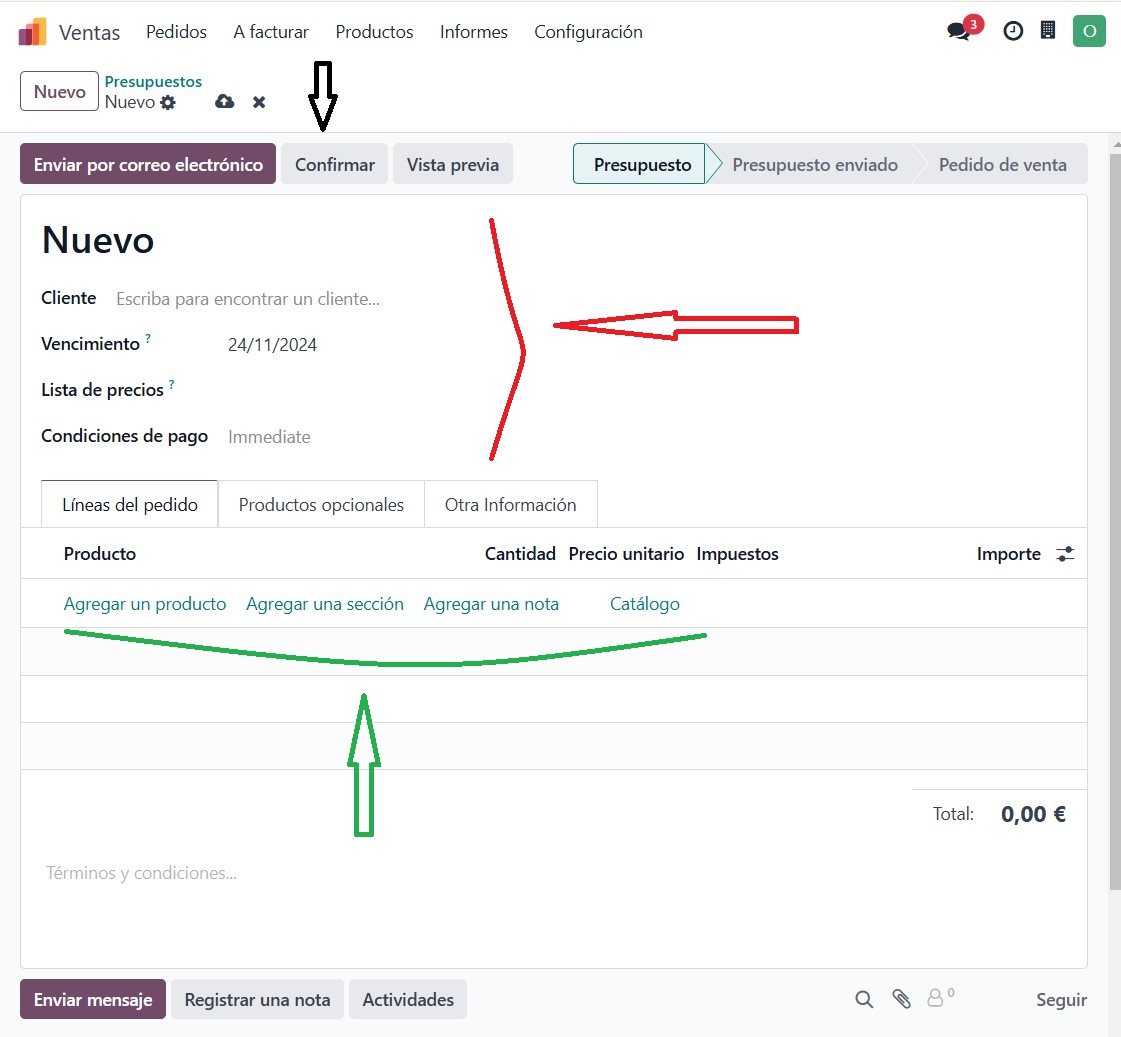
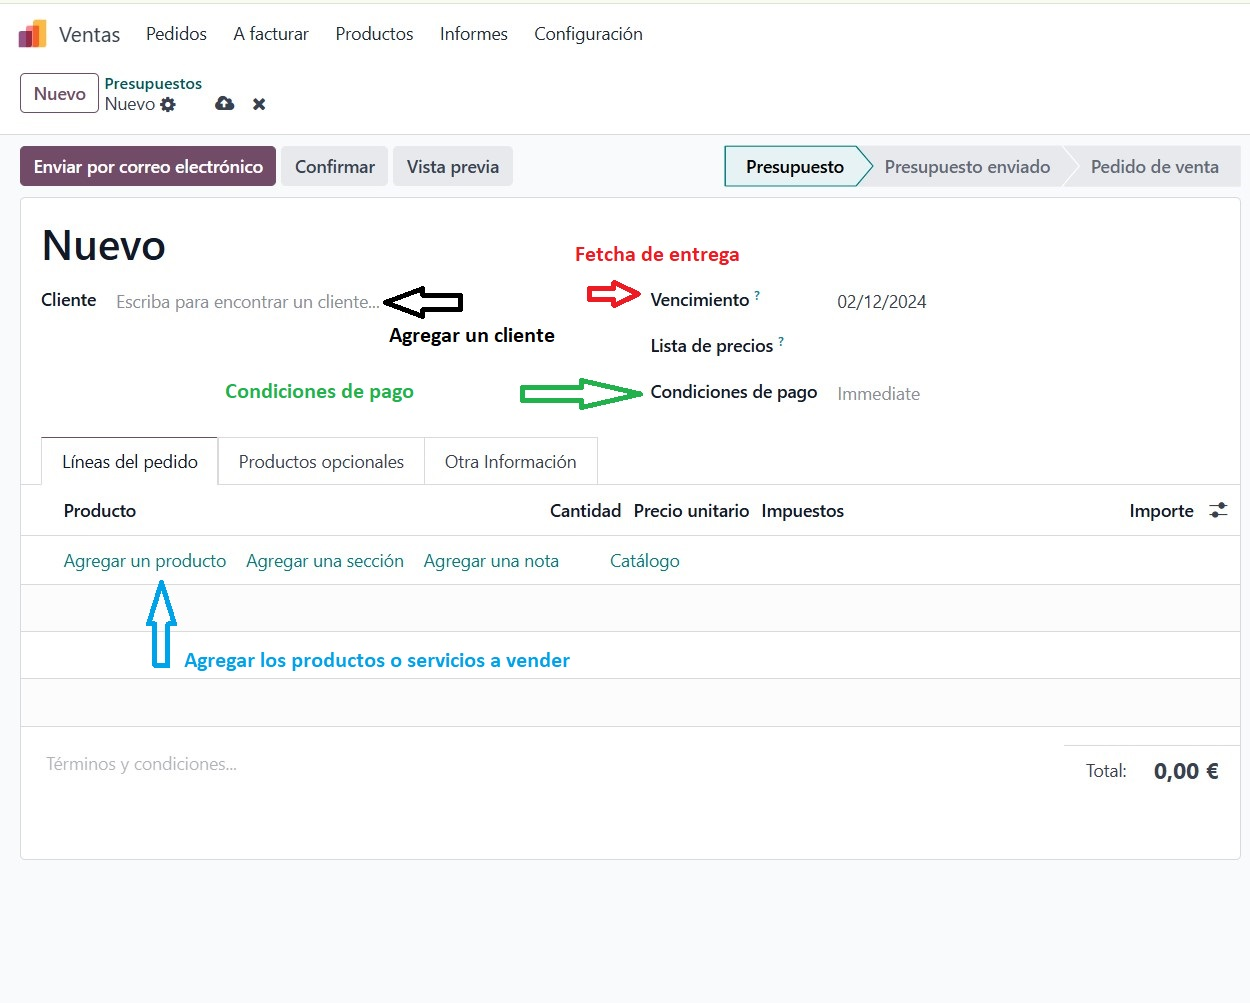
cambiar el modulo de ventas

diff --git a/projecte_the_Bear.md b/projecte_the_Bear.md
@@ -17,36 +17,55 @@ Miguel Muñoz Baena | Puntos de venta y Planificación
 ### Modulo de eventos
 
 ### Modulo de ventas
+El módulo **Ventas** de Odoo permite gestionar todas las actividades relacionadas con el proceso de ventas, incluyendo la creación de cotizaciones, la conversión de estas en pedidos, y la generación de facturas. Este módulo es fundamental para el seguimiento de pedidos de clientes, la automatización del proceso de facturación y la organización de los datos de ventas en una única plataforma.
 
-### 1. Descripción del Módulo
-El módulo **Ventes** permite gestionar todas las ventas del restaurante, incluyendo la creación y emisión de facturas a los clientes.
- 
-### 2. Funcionalidades Principales
-- **Registrar Clientes**: Añadir clientes y sus datos.
-- **Crear Pedidos de Venta**: Generar y gestionar los pedidos de los clientes.
-- **Emitir Facturas**: Crear facturas asociadas a las ventas realizadas.
+## Pasos para Gestionar una Venta
 
-### 3. Ejemplo de Uso
+### 1. Iniciar Sesión y Acceder al Módulo de Ventas
+   - Inicia sesión en tu cuenta de Odoo.
+   - En el **tablero principal**, haz clic en el módulo **Ventas** para acceder a la página de inicio, donde se muestran las cotizaciones y pedidos existentes.
+   
+   ![Modulo Ventas](<1- ventas-1.jpg>)
 
-1. **Acceder al Módulo de Ventas**: Desde el menú principal, selecciona el módulo **Ventas**.
+### 2. Crear una Nueva Cotización
+   - En la página principal del módulo de Ventas, haz clic en **Crear** o **Nuevo** para iniciar una nueva cotización.
 
-![modulo ventas](<1- ventas-1.jpg>)
+![la pagina principale](<2- pagina principale de ventas.jpg>)
 
-Después de hacer clic en el módulo Ventas, encontrarás un botón **"Nuevo"**. Haz clic en él para crear un nuevo registro.
+   - Se abrirá un formulario en blanco de cotización.
+![formulario blanco ](<3 -pagina de crear el cliente y el pedido-2.jpg>)
 
-![button nuevo](<2- pagina principale de ventas.jpg>)
-2. **Crear un Cliente**: Navega a la sección de **Clientes**, rellena la información del cliente indicada en rojo para crear un nuevo cliente. 
-3. **Generar Pedido**: En la sección de Pedidos, agrega la información del pedido aquí, indicada en verde.
+### 3. Agregar los Detalles de la Cotización
+   - **Cliente**: Selecciona un cliente en la base de datos o añade uno nuevo haciendo clic en **Crear**.
+   
+   ![grear un cliente](<4- crear un cliente.jpg>)
+   
+   - **Productos**: En la sección "Líneas de pedido", agrega los productos o servicios a vender. Especifica la cantidad, el precio y cualquier información adicional.
+   
+   ![agregar productos](<agregar pedidos 4.jpg>)
+   
+   - **Fecha de entrega** y **Condiciones de pago**: Completa estos campos para definir los términos de la venta.
+    
+    ![fecha y codiciones de pago](<4 - la fecha y condicion de pago .jpg>)
 
-![Cliente y pedido](<3 -pagina de crear el cliente y el pedido.jpg>)
-Después, haz clic en "Confirmar" para finalizar.
- un ejemplo 
+### 4. Guardar y Enviar la Cotización
+   - Haz clic en **Guardar** para registrar la cotización.
+   - Para enviarla al cliente, utiliza **Enviar por correo electrónico** o **Imprimir** para obtener una versión impresa.
 
-![Ejemplo](<4- crear el cliente y el pedido.jpg>)
+### 5. Confirmar la Venta
+   - Una vez que el cliente acepte la cotización, accede a ella y haz clic en **Confirmar pedido** para convertir la cotización en un **pedido de venta**.
+   - Después de la confirmación, la cotización se convierte en un pedido activo listo para ser procesado.
 
-4. **Emitir Factura**: En el pedido de venta confirmado, selecciona "Crear Factura" para generar una factura para el cliente.
+![pedido confirmado](<5-pedido confirmado-1.jpg>)
 
-![Crear factura](<5-pedido confirmado.jpg>)
+### 6. Generar la Factura (opcional)
+   - Si es necesario, crea una factura accediendo al pedido y haciendo clic en **Crear factura**.
+   - Completa los detalles de la factura y haz clic en **Validar** para finalizar el registro.
+   
+![Factura](6-factura.jpg)
+
+
+Con estos pasos, puedes gestionar fácilmente una venta en el módulo de Ventas de Odoo, desde la creación de una cotización hasta la confirmación de la orden.
 
 ### Modulo de calendario-citas
 
